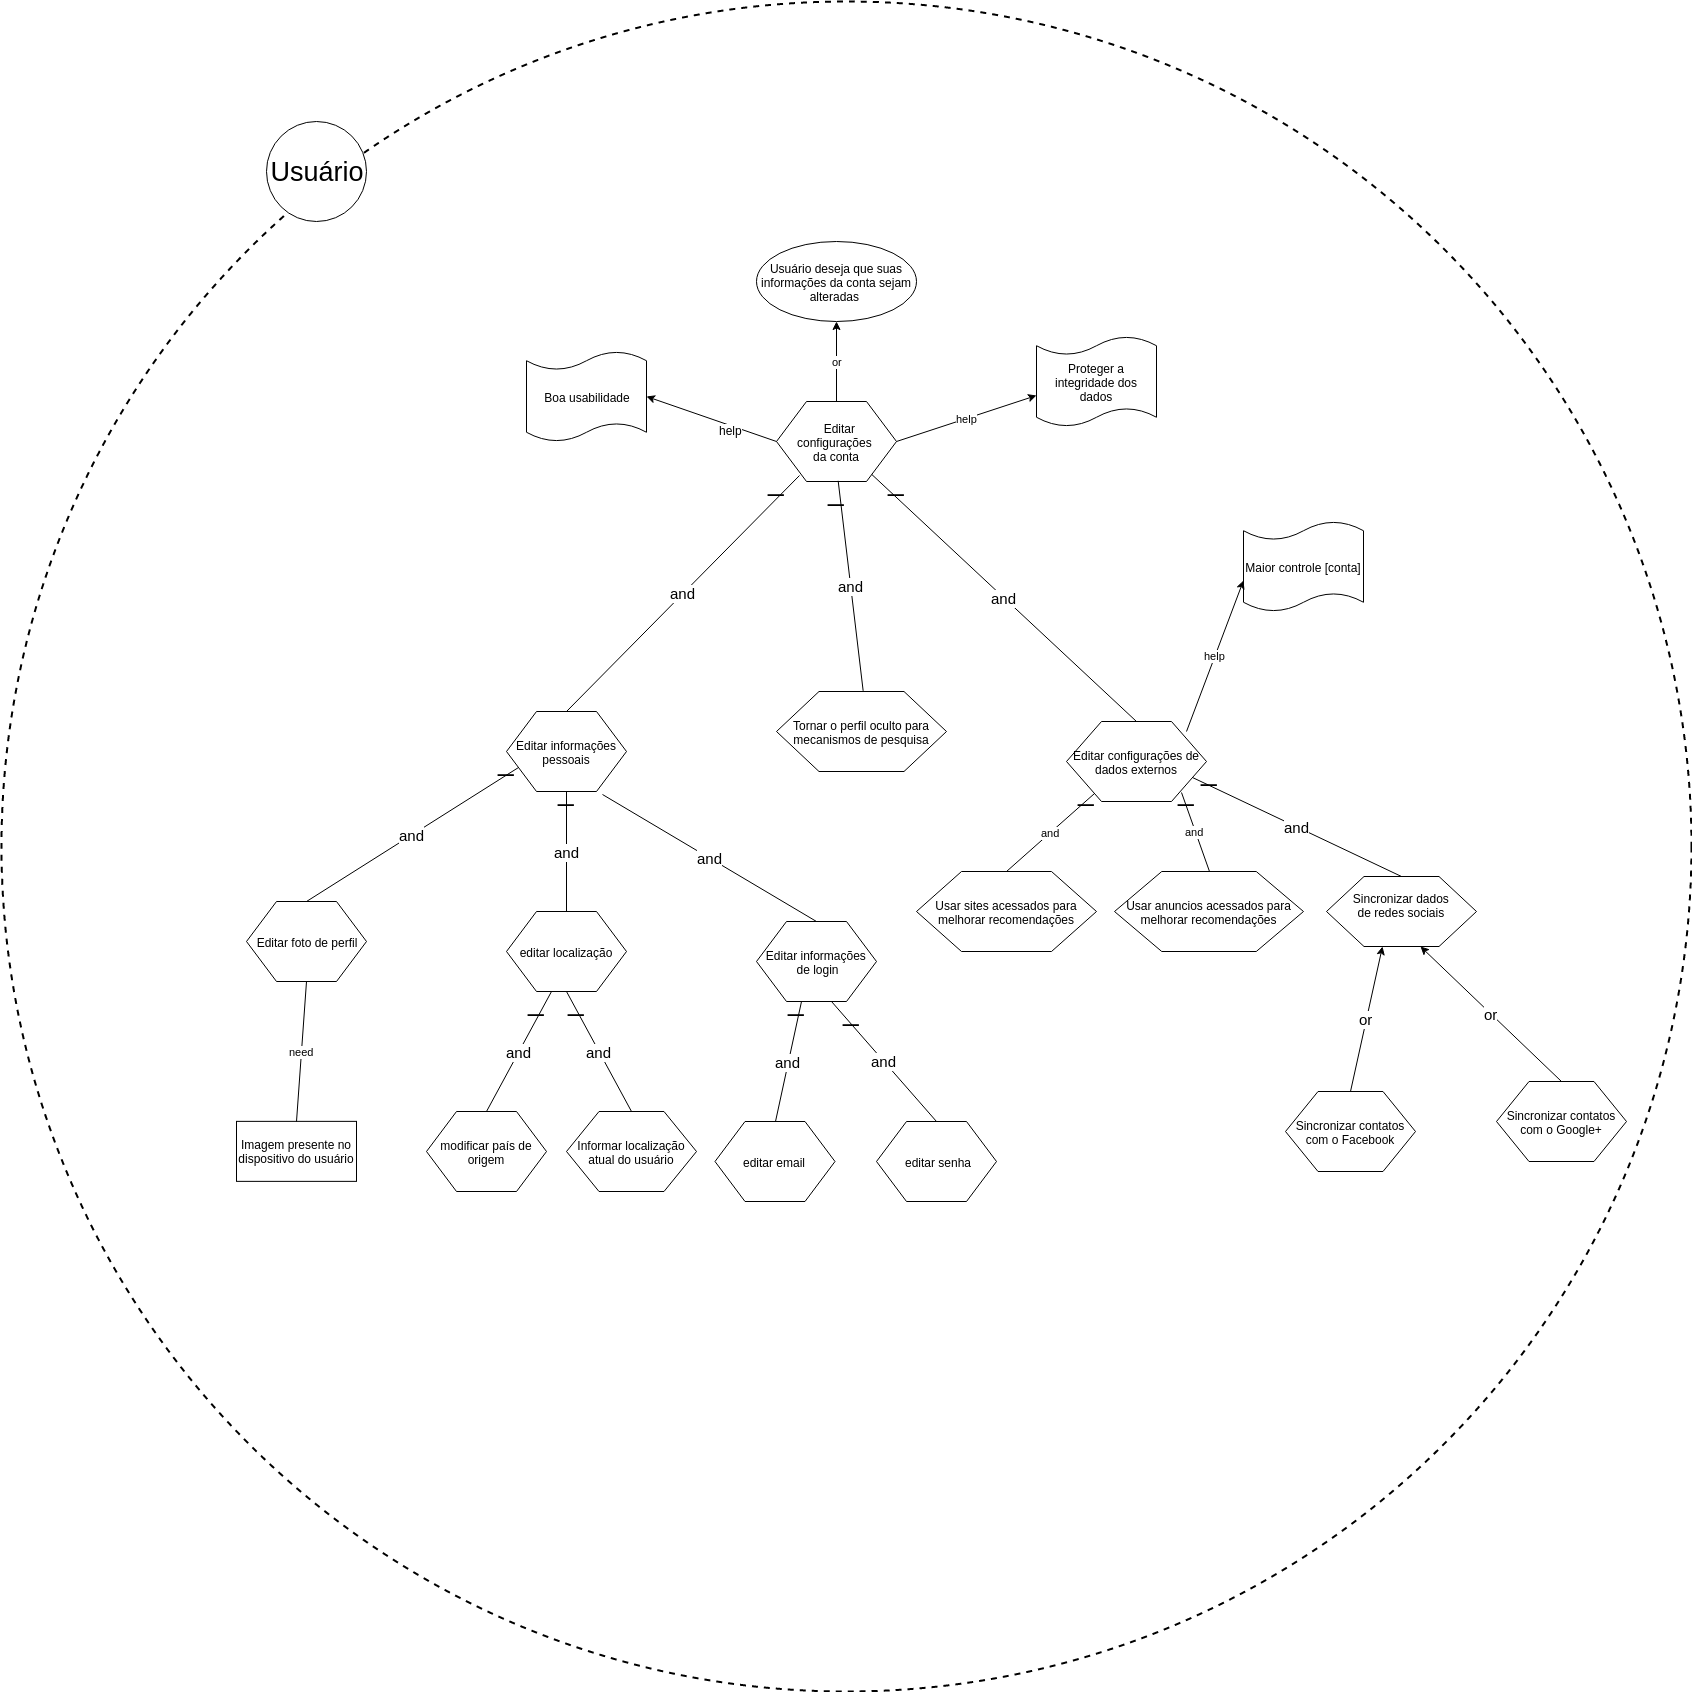
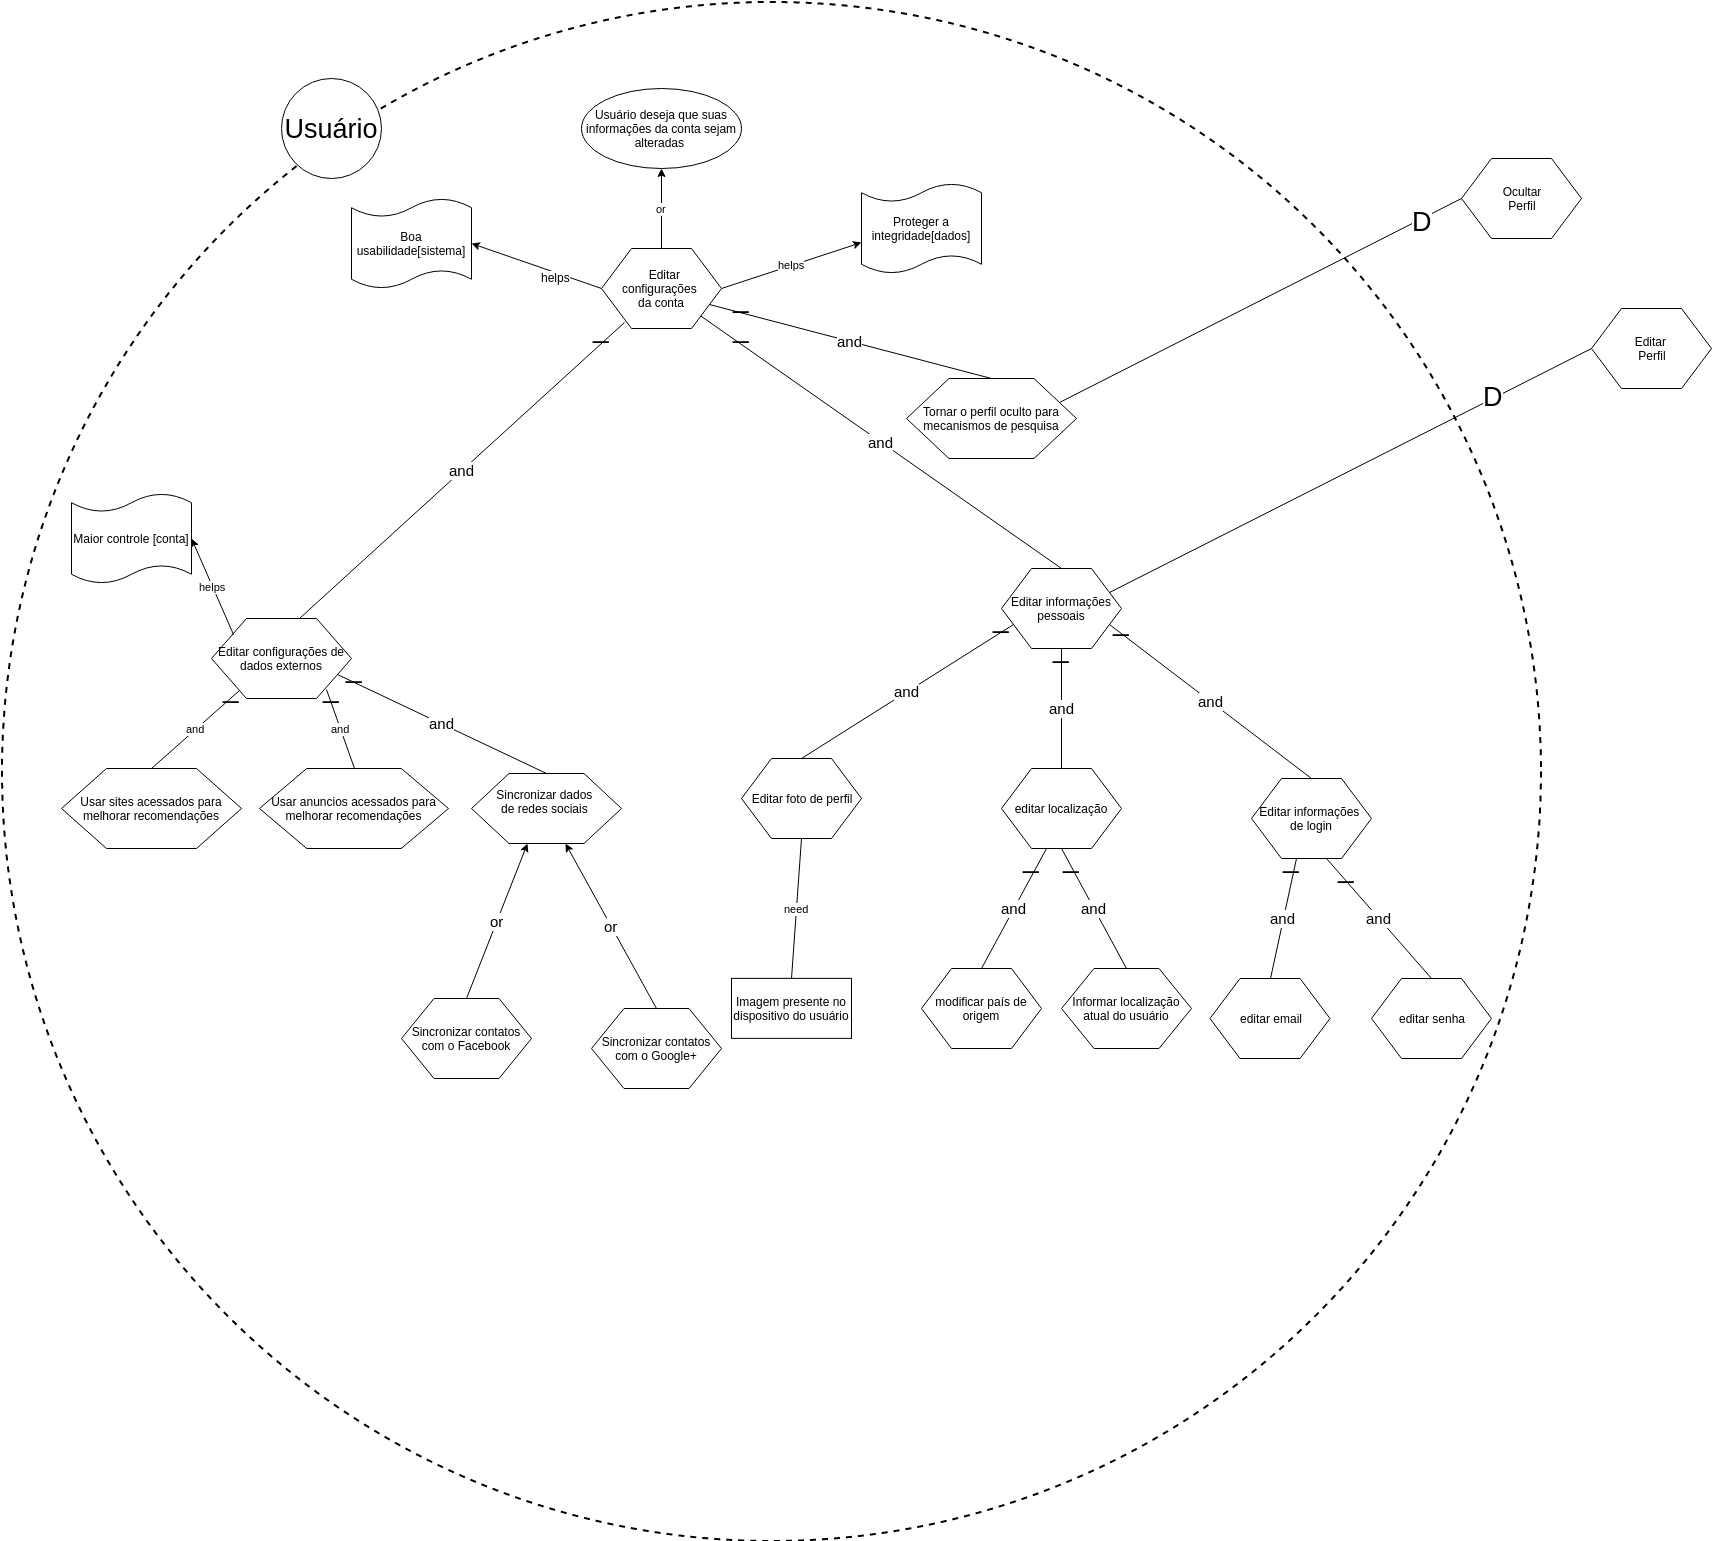
Added others i*

diff --git a/docs/analise_NFR.md b/docs/analise_NFR.md
@@ -1,0 +1,63 @@
+## Introdução
+
+O presente documento visa apresentar a inspeção dos modelos de ***NFR*** (*Non-functional requirements*), trabalho desenvolvido no módulo de Modelagem de Requisitos.
+
+## Objetivo
+
+A inspeção dos modelos de ***NFR Framework*** permite a verificação da aplicação das métricas necessárias para a correta representação do modelo, garantindo ainda uma análise quanto à abrangência, completude e qualidade dos modelos analisados. Um dos focos principais desta inspeção é realizar a verificação da consistência técnica validação através de métricas dos modelos de *NFR Framework* elaborados. Esse conjunto de dados permite descobrir as fraquezas existentes no trabalho e facilita a melhoria da qualidade dos casos de uso nas métricas levantadas como passíveis de melhorias.
+
+## Metodologia
+
+Para a inspeção dos modelos *NFR Framework* será utilizada uma metodologia de avaliação padronizada, em que cada *NFR*, será julgado de acordo com sua não-conformidade com a métrica em análise, ou seja, se a opção “não” for marcada, quer dizer que o modelo *NFR* não está em conformidade com a métrica. Cada métrica está disposta em uma escala de impacto, sendo estes **alto, médio** ou **baixo**. Além disso, também há espaço para a adição de observações pelo avaliador, quando necessário. A inspeção será montada em forma de tabela, sendo cada tabela baseada no checklist geral criado para este documento, em que contém as métricas necessárias para avaliação de um *NFR Framework*.
+
+Após a aplicação da checklist na descrição de uma inspeção de um *NFR* selecionado, será compilada a tabela de medição de inspeção. Em que é compilado um valor que representa de forma quantitativa a qualidade do modelo elaborado, segundo os seguintes critérios:
+* A tabela de medição necessita de pesos para os impactos e para essa análise os pesos adotados serão:
+ * Peso 1 para métricas com Impacto Baixo;
+ * Peso 2 para métricas com Impacto Médio;
+ * Peso 3 para métricas com Impacto Alto;
+* Com os pesos e as métricas será calculada uma **Taxa de Não Conformidade** que expressa em que nível aquele *NFR* se encontra em desacordo com as métricas estabelecidas;
+* O Valor máximo estabelecido para a *Taxa de Não Conformidade* é de **35%**.
+* O Resultado de classificação final do modelo analisado é tido como **Aprovado** caso sua *Taxa de Não Conformidade* esteja abaixo de 35% e tido como **Reprovado** caso sua *Taxa de Não Conformidade* seja maior ou igual a 35%.
+
+As métricas utilizadas e a metodologia são elaboradas a partir do estudo “Uma proposta de inspeção em modelos de caso de uso” de Rosângela Gregolin [ [1] ](#referencias). Neste estudo a autora levanta critérios, regras e modelos para a melhor inspeção de casos de uso, tanto em formato de diagrama, quanto sua descrição.
+
+A metodologia possui certas adaptações para melhor adequá-la ao contexto da disciplina, pois não é feito desenvolvimento de protótipos e documentos específicos requisitados pelo modelo.
+
+Para uma melhor avaliação e observações das métricas foram utilizadas referenciais teóricos da IBM que auxiliam na produção de um bom caso de uso e com isso consegue-se visualizar melhor os erros cometidos no caso de uso desenvolvidos no projeto da matéria e elaborar melhores observações a respeito da métrica analisada.
+
+A seguir pode-se conferir os modelos utilizados para a realização da inspeção:
+
+### Checklist
+
+[EXCEL] inserir a tabela do checklist
+
+### Registro de Inspeção
+
+[EXCEL]
+
+### Tabela de medição
+
+## Inspeções
+
+### Relação de inspeções
+
+{tabela de resumo} inserir a tabela da lista de inspeçoes
+
+### IDCU-1
+
+Rastreabilidade: [UCXX -Nome] ( link com o caso de uso)
+{imagem da tabela}
+
+## Resultados
+
+Com a realização da inspeção dos casos de uso foi verificado que todos eles possuem algum ponto em que precisam de melhoria, porém tivemos um resultado de X aprovados e X reprovados dentre os 26 casos de uso feitos pelo grupo no módulo de Modelagem de Requisitos.
+
+## Conclusão
+
+A inspeção dos casos de uso com base nos referenciais teóricos possibilitou a avaliação de métricas essenciais e a identificação de erros. Com as tabelas de inspeção a correção de cada caso de uso será facilitada com os pontos fracos já listados.
+
+## Referências
+
+[1] - PAIM, Fá Rilston Silva; CASTRO, Jaelson. Enhancing Data Warehouse Design with the NFR Framework. Wer, v. 2, p. 40-57, 2002. Disponível em: http://wer.inf.puc-rio.br/WERpapers/pdf_counter.lua?wer=WER02&file_name=paim.pdf
+
+[2] - COUTO, Anselmo; MARTINS, Luiz Eduardo. (2009). Um Processo de Validação de Requisitos Não-Funcionais Baseado no NFR-Framework. Disponível em: https://www.researchgate.net/publication/221235239_Um_Processo_de_Validacao_de_Requisitos_Nao-Funcionais_Baseado_no_NFR-Framework

diff --git a/docs/iStar.md b/docs/iStar.md
@@ -1,7 +1,7 @@
 # Strategic Dependency Models
 
 ### Geral
-Inserir aqui diagrama do prezi
+![](img/sd_geral.png)
 
 # Strategic Rationale Models
 
@@ -12,29 +12,33 @@ Inserir aqui diagrama do prezi
 ![](img/Rationale-Classificar_Pastas.png)
 
 ## Pesquisar Pins
-Inserir aqui de pesquisa
+![](img/Rationale_Pesquisar_Pins.png)
 
 ## Seguir usuário
 ![](img/rationale_seguir_usuario.png)
 
+## Editar configurações de conta
+![](img/rationale_editar_configuracoes.png)
+
+## Cadastro no Pinterest
+![](img/rationale_cadastro.png)
+
 ## Enviar Pin
 
-#### Usuário
+## Usuário
 
 ![](img/istar-enviar-pin.png)
 
-#### Outro Usuário
+## Outro Usuário
 
 ![](img/istar-postar-pin-outro-usuario.png)
 
-#### Pinterest
+## Pinterest
+
+### Enviar Pin
 
 ![](img/istart-pinterest-enviar-pin.png)
 
-## Editar configurações de conta
-
-![](img/rationale_editar_configuracoes.png)
-
-## Pintrest
+### Geral
 
 ![](img/rationale_pinterest.png)
